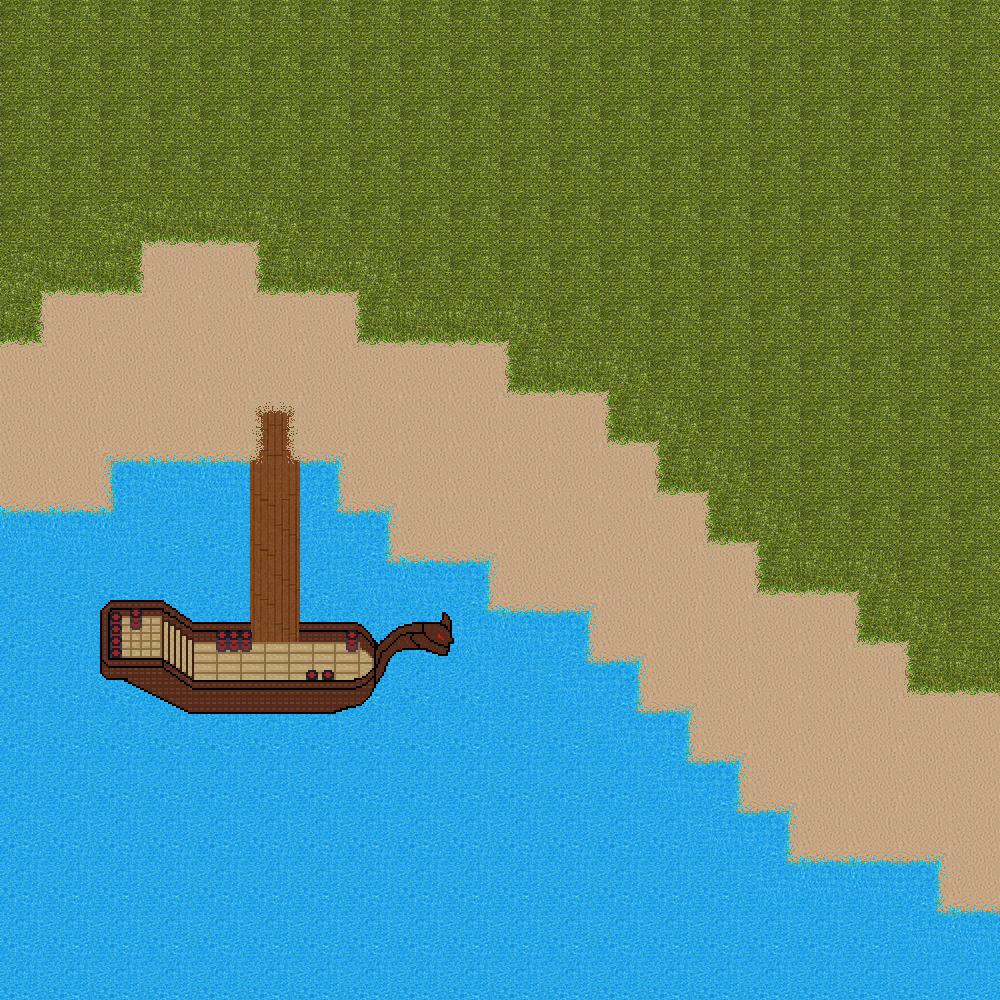
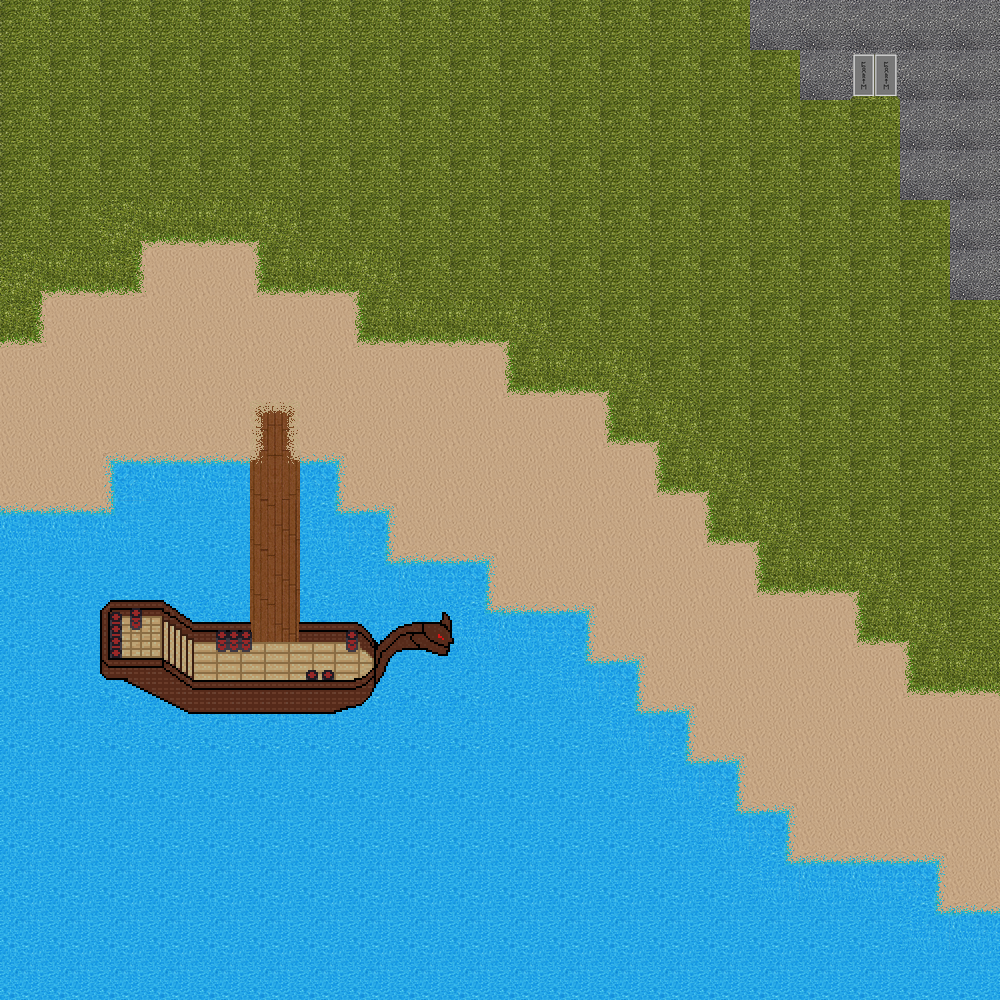
zer

Changed region(s): [[0.744, 0.0, 1.0, 0.31]]

diff --git a/main.py b/main.py
@@ -29,15 +29,21 @@ frameSize = pygame.display.get_surface().get_size()
 fond = pygame.image.load("map/fond.png").convert()
 
 #Chargement de la map
-maps = pygame.image.load("map/map0.png").convert()
-maps = pygame.transform.scale(maps,(3000,3000))
-mapsPos = maps.get_rect()
-mapsPos = mapsPos.move(-290,-1560)
-
-mapsCollision = pygame.image.load("map/map0Mask.png").convert()
-mapsCollision = pygame.transform.scale(mapsCollision,(3000,3000))
+maps = []
+mapsPos = []
+mapsCollision = []
 pxarray = []
-pxarray = pygame.PixelArray(mapsCollision.copy()) #248 177 33
+
+for i in range(1):
+    maps.append(pygame.image.load("map/map0.png").convert())
+    maps[i] = pygame.transform.scale(maps[i],(3000,3000))
+    mapsPos.append(maps[i].get_rect())
+    mapsPos[i] = mapsPos[i].move(-290,-1560)
+    
+    mapsCollision.append(pygame.image.load("map/map0Mask.png").convert())
+    mapsCollision[i] = pygame.transform.scale(mapsCollision[i],(3000,3000))
+    
+    pxarray.append(pygame.PixelArray(mapsCollision[i].copy()))
 
 #Chargement et collage du personnage
 player = [[],[]]
@@ -49,7 +55,7 @@ for i in range(4):
     player[1][i] = pygame.transform.scale(player[1][i],(70,70))
 #frame.blit(perso, (200,300))
 
-botsPos = [[0,792.0, 1180, "?!#*&@"],[1,1794.0, 432.0, "?!#*&@"]]
+botsPos = [[0,792.0, 1180, "?!#*&@"],[1,1794.0, 432.0, "?!#*&@"],[3,2586.0, 250.0,"door"]]
 botsDiag = [["Fluffy : Hi, my name is Fluffy and I was hired",
              "in the archeologic team here. I am here to",
              "help with the new language you discovered.",
@@ -68,7 +74,7 @@ botsDiag = [["Fluffy : Hi, my name is Fluffy and I was hired",
              ""]]
             
 bots = []
-for i in range(2):
+for i in range(3):
     bots.append(pygame.image.load("bots/bot"+str(i)+".png").convert_alpha())
     bots[i] = pygame.transform.scale(bots[i],(70,70))
 
@@ -111,7 +117,7 @@ resetSpace = True;
 
 # Var Map
 
-mapPos = [0,0];
+currentMap = 0;
 
 # Var Player
 
@@ -137,29 +143,30 @@ constantiaFont = pygame.font.SysFont("constantia", 54)
 
 def isColliding(side):
     #global mapsCollision
+    global currentMap
     global mapsPos
     global pxarray
 
     wallDetected = False
 
-    upL = (int(W/2-mapsPos[0]),int(H/2-mapsPos[1]+40))
-    upR = (int(W/2-mapsPos[0]+70), int(H/2-mapsPos[1]+40))
-    doL = (int(W/2-mapsPos[0]), int(H/2-mapsPos[1]+70))
-    doR = (int(W/2-mapsPos[0]+70), int(H/2-mapsPos[1]+70))
+    upL = (int(W/2-mapsPos[currentMap][0]),int(H/2-mapsPos[currentMap][1]+40))
+    upR = (int(W/2-mapsPos[currentMap][0]+70), int(H/2-mapsPos[currentMap][1]+40))
+    doL = (int(W/2-mapsPos[currentMap][0]), int(H/2-mapsPos[currentMap][1]+70))
+    doR = (int(W/2-mapsPos[currentMap][0]+70), int(H/2-mapsPos[currentMap][1]+70))
 
     #print(pygame.Color(pxarray[doR[0]][doR[1]]))
 
     if (side == 0):
-        if (pygame.Color(pxarray[doL[0]-5][doL[1]]) == (0, 248, 177, 33) or pygame.Color(pxarray[upL[0]-5][upL[1]]) == (0, 248, 177, 33)):
+        if (pygame.Color(pxarray[currentMap][doL[0]-5][doL[1]]) == (0, 248, 177, 33) or pygame.Color(pxarray[currentMap][upL[0]-5][upL[1]]) == (0, 248, 177, 33)):
             return True
     if (side == 1):
-        if (pygame.Color(pxarray[upL[0]][upL[1]-5]) == (0, 248, 177, 33) or pygame.Color(pxarray[upR[0]][upR[1]-5]) == (0, 248, 177, 33)):
+        if (pygame.Color(pxarray[currentMap][upL[0]][upL[1]-5]) == (0, 248, 177, 33) or pygame.Color(pxarray[currentMap][upR[0]][upR[1]-5]) == (0, 248, 177, 33)):
             return True;
     if (side == 2):
-        if (pygame.Color(pxarray[upR[0]+5][upR[1]]) == (0, 248, 177, 33) or pygame.Color(pxarray[doR[0]+5][doR[1]]) == (0, 248, 177, 33)):
+        if (pygame.Color(pxarray[currentMap][upR[0]+5][upR[1]]) == (0, 248, 177, 33) or pygame.Color(pxarray[currentMap][doR[0]+5][doR[1]]) == (0, 248, 177, 33)):
             return True;
     if (side == 3):
-        if (pygame.Color(pxarray[doL[0]][doL[1]+5]) == (0, 248, 177, 33) or pygame.Color(pxarray[doR[0]][doR[1]+5]) == (0, 248, 177, 33)):
+        if (pygame.Color(pxarray[currentMap][doL[0]][doL[1]+5]) == (0, 248, 177, 33) or pygame.Color(pxarray[currentMap][doR[0]][doR[1]+5]) == (0, 248, 177, 33)):
             return True;
 
     return wallDetected
@@ -175,12 +182,18 @@ def isBot():
     botDetected = False
 
     for i in range(len(bots)):
-        if (sqrt((-mapsPos[0]+W/2-botsPos[i][1])**2+(-mapsPos[1]+H/2-botsPos[i][2])**2) <= 150):
+        if (sqrt((-mapsPos[currentMap][0]+W/2-botsPos[i][1])**2+(-mapsPos[currentMap][1]+H/2-botsPos[i][2])**2) <= 150):
             return botsPos[i][0]
     
     return -1
     #if (side == 0):
 
+def evaluateDoor():
+    global nearBot
+    
+    if (nearBot == 2):
+        currentMap = 1;
+        
 
 #=========================
 # While
@@ -243,33 +256,33 @@ while continuer:
         if (not isInteracting):
             if (direction[0]==1 or direction[1]==1 or direction[2]==1 or direction[3]==1):
                 sprite = (sprite+1)%spriteCount
-                if (direction[0] == 1 and -mapsPos[0]+W/2>=0 and not isColliding(0)):
+                if (direction[0] == 1 and -mapsPos[currentMap][0]+W/2>=0 and not isColliding(0)):
                     finalDir = 0
-                    mapsPos = mapsPos.move(-speed, 0);
+                    mapsPos[currentMap] = mapsPos[currentMap].move(-speed, 0);
                     keyTuto[0] = 1
-                if (direction[1] == 1 and -mapsPos[1]+H/2>=0 and not isColliding(1)):
+                if (direction[1] == 1 and -mapsPos[currentMap][1]+H/2>=0 and not isColliding(1)):
                     finalDir = 1
-                    mapsPos = mapsPos.move(0, -speed);
+                    mapsPos[currentMap] = mapsPos[currentMap].move(0, -speed);
                     keyTuto[1] = 1
-                if (direction[2] == 1 and -mapsPos[0]+W/2+70<=2990 and not isColliding(2)):
+                if (direction[2] == 1 and -mapsPos[currentMap][0]+W/2+70<=2990 and not isColliding(2)):
                     finalDir = 2
-                    mapsPos = mapsPos.move(speed, 0);
+                    mapsPos[currentMap] = mapsPos[currentMap].move(speed, 0);
                     keyTuto[2] = 1
-                if (direction[3] == 1 and -mapsPos[1]+H/2+70<=2990 and not isColliding(3)):
+                if (direction[3] == 1 and -mapsPos[currentMap][1]+H/2+70<=2990 and not isColliding(3)):
                     finalDir = 3
-                    mapsPos = mapsPos.move(0, speed);
+                    mapsPos[currentMap] = mapsPos[currentMap].move(0, speed);
                     keyTuto[3] = 1
             else:
                 sprite = 0
         
         #if (menu == 0):
         frame.blit(fond, (0,0))
-        frame.blit(maps, mapsPos)
-        #print((-mapsPos[0]+W/2,-mapsPos[1]+H/2))
+        frame.blit(maps[currentMap], mapsPos[currentMap])
+        print((-mapsPos[currentMap][0]+W/2,-mapsPos[currentMap][1]+H/2))
         
         #Bots
         for i in range(len(bots)):
-            frame.blit(bots[0],(botsPos[i][1]+mapsPos[0],botsPos[i][2]+mapsPos[1]))
+            frame.blit(bots[i],(botsPos[i][1]+mapsPos[currentMap][0],botsPos[i][2]+mapsPos[currentMap][1]))
             
         if (direction[1] == 1 and not isInteracting):
             frame.blit(player[int(sprite/(spriteCount/2))][1], (W/2,H/2))
@@ -291,21 +304,24 @@ while continuer:
         
         
         if (isInteracting):
-            print(nearBot)
-            frame.blit(box,(40,H-250-20))
-            if (whichDiag <= len(botsDiag[nearBot])-1):
-                text1 = constantiaFont.render(botsDiag[nearBot][whichDiag],1,White)
-                text2 = constantiaFont.render(botsDiag[nearBot][whichDiag+1],1,White)
-                text3 = constantiaFont.render(botsDiag[nearBot][whichDiag+2],1,White)
-                frame.blit(text1,(110,H-250+20))
-                frame.blit(text2,(110,H-250+80))
-                frame.blit(text3,(110,H-250+140))
+            #print(nearBot)
+            if (botsPos[nearBot][3] != "door"):
+                frame.blit(box,(40,H-250-20))
+                if (whichDiag <= len(botsDiag[nearBot])-1):
+                    text1 = constantiaFont.render(botsDiag[nearBot][whichDiag],1,White)
+                    text2 = constantiaFont.render(botsDiag[nearBot][whichDiag+1],1,White)
+                    text3 = constantiaFont.render(botsDiag[nearBot][whichDiag+2],1,White)
+                    frame.blit(text1,(110,H-250+20))
+                    frame.blit(text2,(110,H-250+80))
+                    frame.blit(text3,(110,H-250+140))
+                else:
+                    isInteracting = False;
+                    whichDiag = 0
+                    if (nearBot == 1):
+                       dicodecFound = True
+                sprite = 0
             else:
-                isInteracting = False;
-                whichDiag = 0
-                if (nearBot == 1):
-                   dicodecFound = True
-            sprite = 0
+                evaluteDoor()
         
     # UPDATE
     
